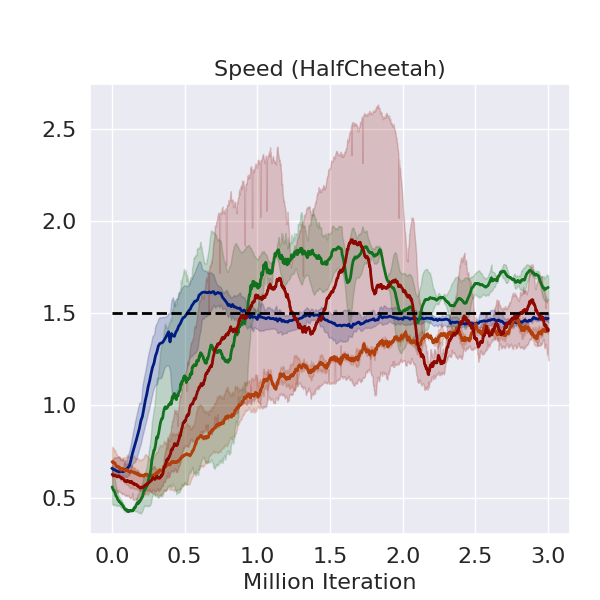
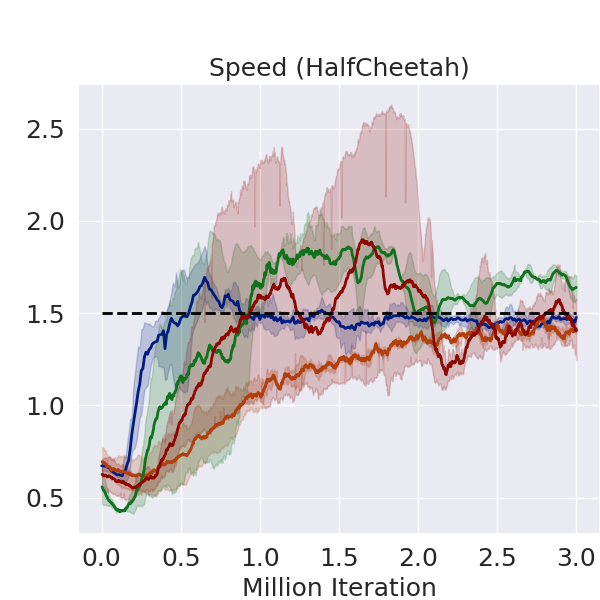
update plot

diff --git a/data_process/lineplot_mujoco_raw_spd_halfcheetah.py b/data_process/lineplot_mujoco_raw_spd_halfcheetah.py
@@ -26,7 +26,7 @@ fsac_bias = {'episode_return':{'Ant':-1000,'HalfCheetah':-750,},'episode_cost':{
 
 
 def help_func():
-    tag2plot = ['episode_return']
+    tag2plot = ['episode_cost']
     alg_list = ['FSAC', 'CPO','PPO-Lagrangian','TRPO-Lagrangian', ] # 'FSAC', 'CPO', 'SAC','SAC-Lagrangian',
     lbs = ['FAC','CPO','PPO-L','TRPO-L',] #  'FAC', 'CPO', 'SAC','SAC-Lagrangian',
     task = ['HalfCheetah']
@@ -132,8 +132,8 @@ def plot_eval_results_of_all_alg_n_runs(dirs_dict_for_plot=None):
         compare_dict = dump_results(final_results)
         total_dataframe = df_list[0].append(df_list[1:], ignore_index=True) if len(df_list) > 1 else df_list[0]
         figsize = (6,6)
-        axes_size = [0.15, 0.11, 0.8, 0.75] #if env == 'path_tracking_env' else [0.095, 0.11, 0.905, 0.89]
-        fontsize = 16
+        axes_size = [0.13, 0.11, 0.87, 0.75] #if env == 'path_tracking_env' else [0.095, 0.11, 0.905, 0.89]
+        fontsize = 18
         f1 = plt.figure(1, figsize=figsize)
         ax1 = f1.add_axes(axes_size)
         legend = True if task == 'Ant' and tag == 'episode_cost' else False

diff --git a/data_process/lineplot_mujoco_raw_spd_walker.py b/data_process/lineplot_mujoco_raw_spd_walker.py
@@ -26,7 +26,7 @@ fsac_bias = {'episode_return':{'Ant':-1000,'HalfCheetah':0,'Walker2d':0,},'episo
 
 
 def help_func():
-    tag2plot = ['episode_cost']
+    tag2plot = ['episode_return']
     alg_list = ['FSAC', 'CPO','PPO-Lagrangian','TRPO-Lagrangian', ] # 'FSAC', 'CPO', 'SAC','SAC-Lagrangian',
     lbs = ['FAC','CPO','PPO-L','TRPO-L',] #  'FAC', 'CPO', 'SAC','SAC-Lagrangian',
     task = ['Walker2d']
@@ -136,8 +136,8 @@ def plot_eval_results_of_all_alg_n_runs(dirs_dict_for_plot=None):
         compare_dict = dump_results(final_results)
         total_dataframe = df_list[0].append(df_list[1:], ignore_index=True) if len(df_list) > 1 else df_list[0]
         figsize = (6,6)
-        axes_size = [0.15, 0.11, 0.8, 0.75] #if env == 'path_tracking_env' else [0.095, 0.11, 0.905, 0.89]
-        fontsize = 16
+        axes_size = [0.13, 0.11, 0.87, 0.75] #if env == 'path_tracking_env' else [0.095, 0.11, 0.905, 0.89]
+        fontsize = 18
         f1 = plt.figure(1, figsize=figsize)
         ax1 = f1.add_axes(axes_size)
         legend = True if task == 'Ant' and tag == 'episode_cost' else False
